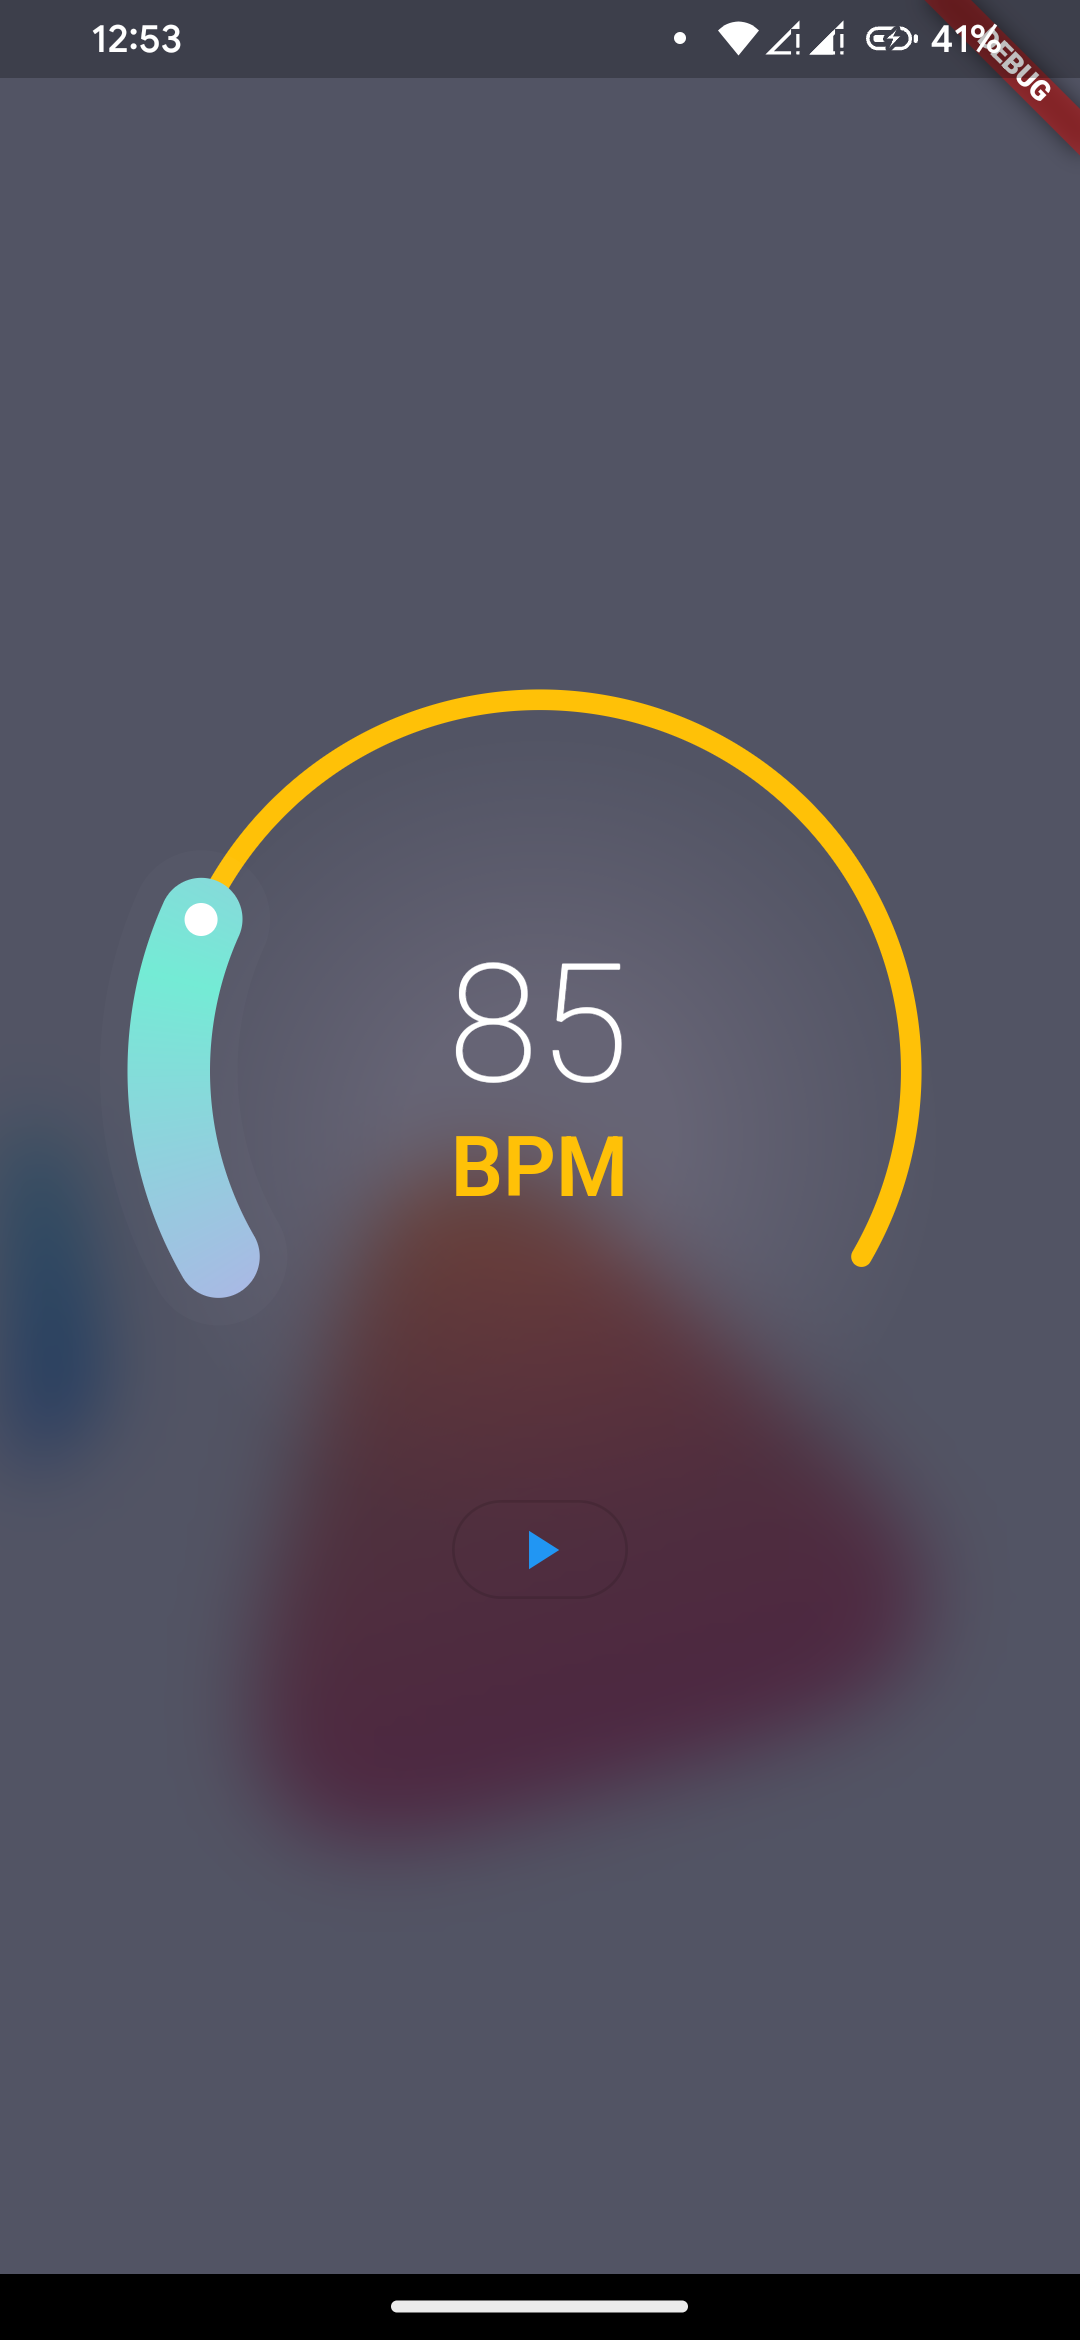
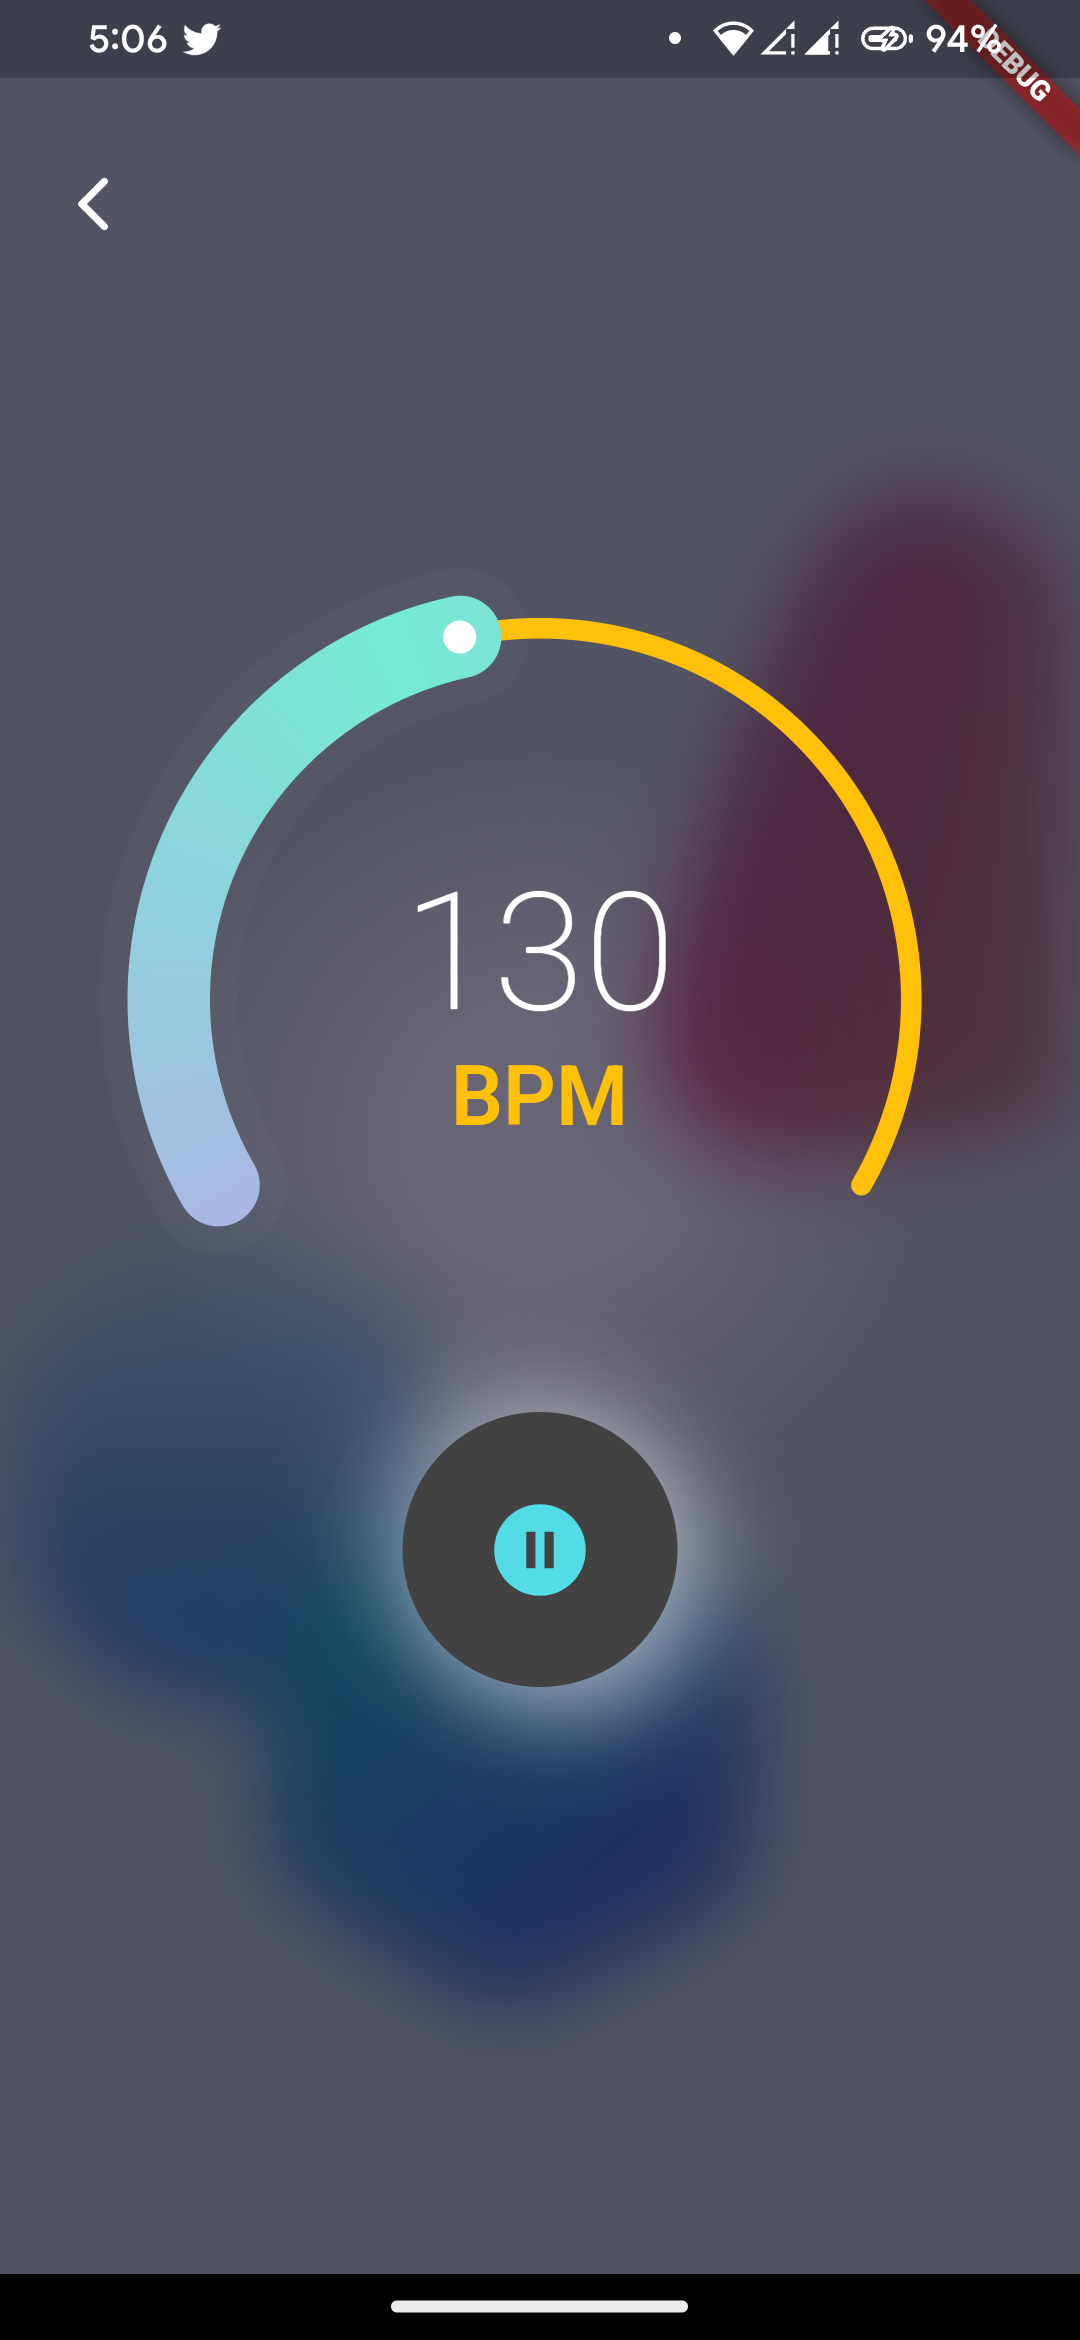
screenshots

diff --git a/lib/features/home/presentation/pages/metronome_page.dart b/lib/features/home/presentation/pages/metronome_page.dart
@@ -1,3 +1,4 @@
+import 'dart:async';
 import 'dart:developer';
 import 'dart:ui';
 
@@ -5,7 +6,6 @@ import 'package:guitar_tuner/features/home/presentation/pages/home_page.dart';
 import "package:rive/rive.dart" as rv;
 import 'package:audioplayers/audioplayers.dart';
 import 'package:flutter/material.dart';
-import 'package:reliable_interval_timer/reliable_interval_timer.dart';
 import 'package:sleek_circular_slider/sleek_circular_slider.dart';
 
 // number of milliseconds in a minute
@@ -31,52 +31,19 @@ class MetronomePage extends StatefulWidget {
 // this is made public so it is visible in the unit test
 // Note: there may be a better way to test private state
 class MetronomePageState extends State<MetronomePage> {
-  double _tempo = 80;
-
-  // Used to toggle metronome click
-  // It is set to be a public member,
-  // so it is visible in the unit test
-  bool soundEnabled = true;
-  bool paused = true;
-  bool _isElevated = false;
-
-
-  late ReliableIntervalTimer _timer;
-  // late AudioPlayer player;
+  final _isElevated = false;
   static AudioPlayer player = AudioPlayer();
+  AudioCache audioCache1  = AudioCache(prefix: 'assets/audio'); 
 
 
-  int _calculateTimerInterval(int tempo) {
-    double timerInterval = minute / tempo;
-
-    return timerInterval.round();
-  }
-
-  void onTimerTick(int elapsedMilliseconds) async {
-    if (soundEnabled) {
-      player.play(AssetSource(metronomeAudioPath));
-    }
-  }
-
-  ReliableIntervalTimer _scheduleTimer([int milliseconds = 10000]) {
-    return ReliableIntervalTimer(
-      interval: Duration(milliseconds: milliseconds),
-      callback: onTimerTick,
-    );
-  }
 
   @override
   void initState() {
     super.initState();
-
-    _timer = _scheduleTimer(_calculateTimerInterval(_tempo.round()));
-
-    // _timer.start();
   }
 
   @override
   void dispose() {
-    _timer.stop();
 
     super.dispose();
   }
@@ -117,49 +84,6 @@ class MetronomePageState extends State<MetronomePage> {
                 children: <Widget>[
                   customSlider(),
                   neumprhicBtn()
-
-                  // Row(
-                  //   mainAxisAlignment: MainAxisAlignment.spaceAround,
-                  //   children: [
-                  //     // MaterialButton(
-                  //     //   onPressed: ()  async {
-                          
-                            
-                  //     //       _timer = _scheduleTimer(
-                  //     //         _calculateTimerInterval(_tempo.round()),
-                  //     //       );
-             
-                  //     //       if(paused){
-                  //     //         await _timer.start();
-                  //     //         paused=false;
-                  //     //         log(paused.toString());
-                  //     //       }else{
-                  //     //         await _timer.stop();
-                  //     //         paused=true;
-                  //     //         log(paused.toString());
-          
-                  //     //       }
-                  //     //     setState(() {
-                  //     //     });
-                  //     //   },
-                  //     //   shape: ,
-                  //     //   child: Icon(
-                  //     //     paused?
-                  //     //     Icons.play_arrow:
-                  //     //     Icons.pause,
-                  //     //   ),
-                  //     // ),
-                  //     // OutlinedButton(
-                  //     //   style: _buttonStyle,
-                  //     //   onPressed: () async {
-                  //     //     await _timer.stop();
-                  //     //   },
-                  //     //   child: const Icon(
-                  //     //     Icons.stop,
-                  //     //   ),
-                  //     // ),
-                  //   ],
-                  // )
                 ],
               ),
             ),
@@ -167,10 +91,16 @@ class MetronomePageState extends State<MetronomePage> {
           Positioned(
             top: 50,
             left: 10,
-            child: IconButton(
-              onPressed: ()=> Navigator.pushReplacement(context,MaterialPageRoute(builder: (context) => const HomePage(), ) ), 
-              icon: const Icon(Icons.arrow_back_ios_new_rounded,color: Colors.white, )),
-          )
+            child: Row(
+              children: [
+                IconButton(
+                  onPressed: ()=> Navigator.pushReplacement(context,MaterialPageRoute(builder: (context) => const HomePage(), ) ), 
+                  icon: const Icon(Icons.arrow_back_ios_new_rounded,color: Colors.white, )),
+                Center(child: Text("Metronome",style: Theme.of(context).textTheme.headlineMedium!.copyWith(color: Colors.white,fontWeight: FontWeight.w200 ), )),
+
+              ],
+            ),
+          ),
         ],
       ),
     );
@@ -197,9 +127,9 @@ class MetronomePageState extends State<MetronomePage> {
         child: Column(
           crossAxisAlignment: CrossAxisAlignment.center,
           mainAxisAlignment: MainAxisAlignment.center,
-          children: [
+          children:  [
             Text(
-              _tempo.round().toString(),
+              percentage.roundToDouble().ceil().toString(),
               style: const TextStyle(color: Colors.white, fontSize: 60,fontWeight: FontWeight.w200  ), 
             ),
             const Text(
@@ -209,36 +139,22 @@ class MetronomePageState extends State<MetronomePage> {
           ],
         ),
       ),
-      onChange: (double value)async {
-        await _timer.stop();
-
-        setState(() {
-          _tempo = value;
-        });
-    });
+      onChange: (double value) {
+        log(value.toStringAsFixed(0));
+      }
+    );
   }
 
   neumprhicBtn(){
     return Center(
         child: GestureDetector(
-          onTap: ()async {
-              _timer = _scheduleTimer(
-                _calculateTimerInterval(_tempo.round()),
-              );
+          onTap: () {
+            Timer.periodic(const Duration(seconds: 1), (timer) {
+          player.play(AssetSource(metronomeAudioPath));
 
-              if(_isElevated){
-                await _timer.start();
-                _isElevated=false;
-                log(_isElevated.toString());
-              }else{
-                await _timer.stop();
-                _isElevated=true;
-                log(_isElevated.toString());
+             });
 
-              }
-            setState(() {
-              _isElevated = !_isElevated;
-            });
+  
           },
           child: AnimatedContainer(
             duration: const Duration(
